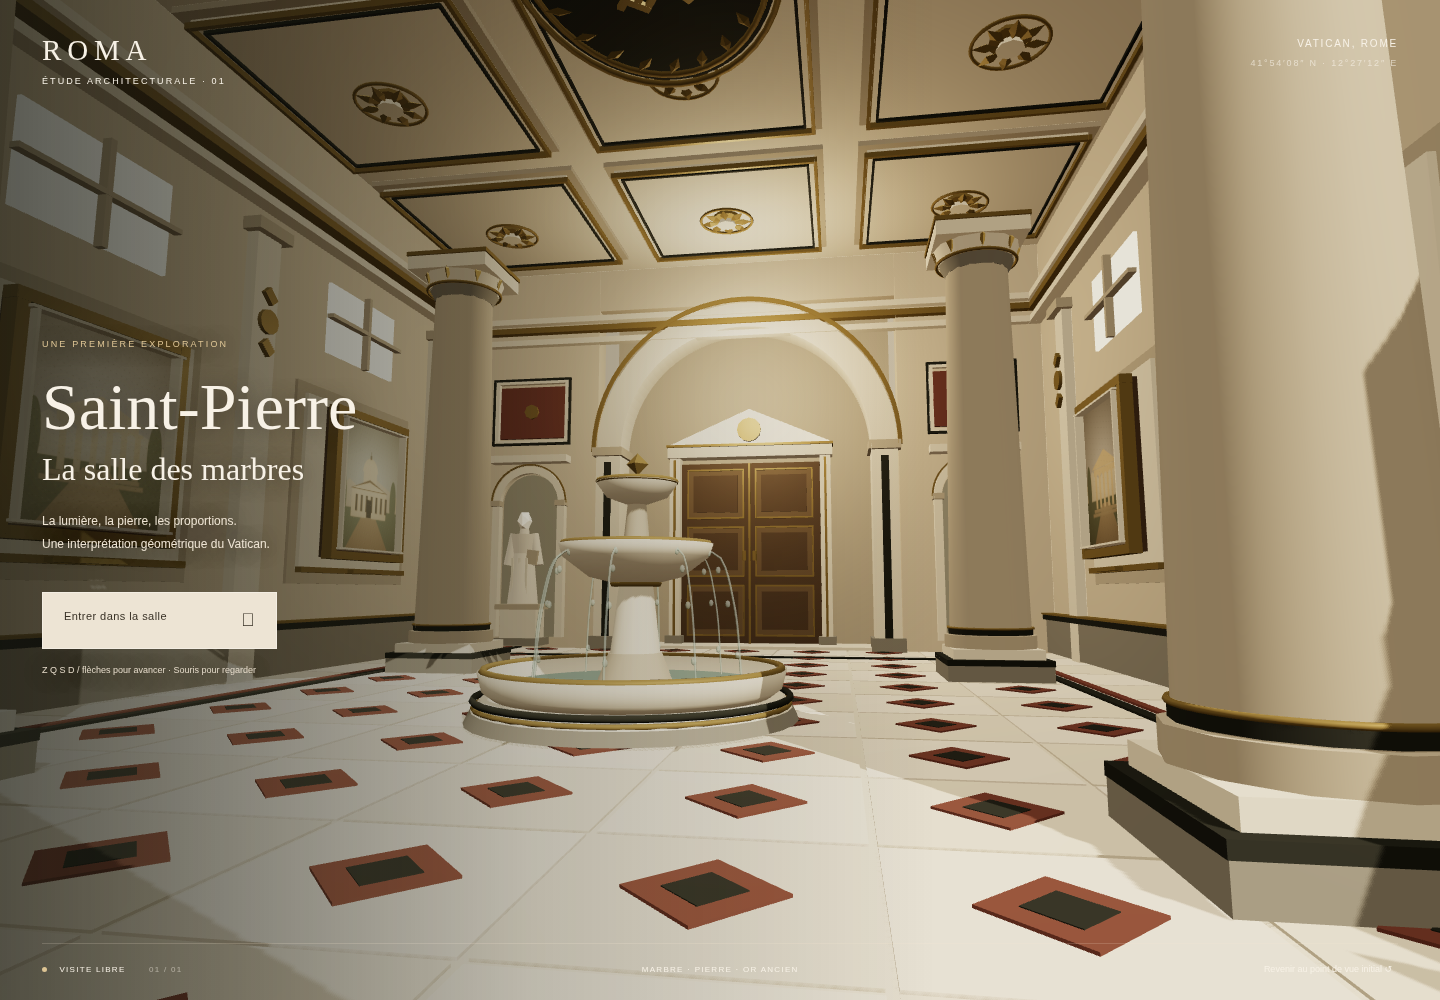
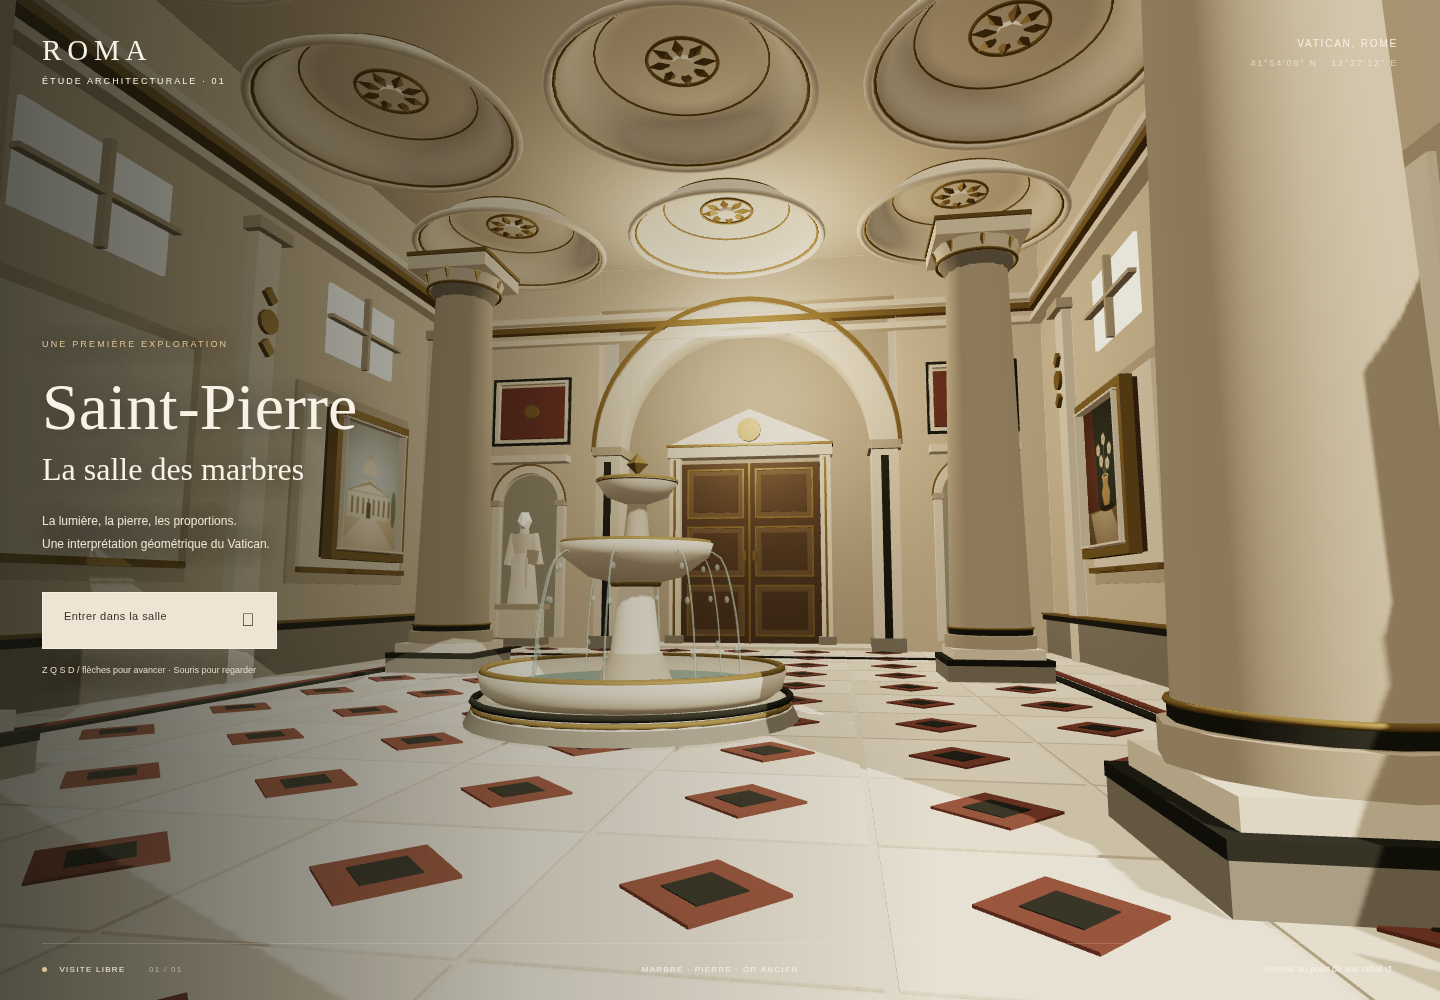
Round recessed ceiling mouldings and display four distinct paintings

diff --git a/src/main.js b/src/main.js
@@ -110,7 +110,19 @@ for(const side of [-1,1]){for(const z of [-10,-3,4,11]){box(.28,9,.65,side*8.65,
 for(const y of [9.6,10,10.3]){box(18,.18,.3,0,y,-12.55,y===10?gold:cream);for(const side of [-1,1])box(.4,.18,26,side*8.6,y,0,y===10?gold:cream);}
 // Plafond à caissons, aux bordures or ancien.
 box(18,.35,26,0,12.1,0,cream);
-for(const x of [-6,0,6])for(const z of [-9,-3,3,9]){box(5.2,.12,5.2,x,11.86,z,stone);box(4.8,.14,4.8,x,11.78,z,cream);for(const dx of [-2.42,2.42])box(.08,.12,4.92,x+dx,11.65,z,gold);for(const dz of [-2.42,2.42])box(4.92,.12,.08,x,11.65,z+dz,gold);const rosette=cylinder(.32,.4,.12,x,11.61,z,gold,8);rosette.rotation.y=Math.PI/8;}
+// Profil concave : le centre remonte dans le plafond, les bords sont arrondis.
+const coveMaterial=cream.clone();coveMaterial.side=THREE.DoubleSide;
+const coveGeometry=new THREE.LatheGeometry([
+  [0,11.87],[1.35,11.87],[1.6,11.82],[1.81,11.7],[1.99,11.52],
+  [2.13,11.32],[2.25,11.16],[2.4,11.06],[2.52,11.04]
+].map(([r,y])=>new THREE.Vector2(r,y)),48);
+for(const x of [-6,0,6])for(const z of [-9,-3,3,9]){
+  const cove=new THREE.Mesh(coveGeometry,coveMaterial);cove.position.set(x,0,z);
+  cove.name='rounded-ceiling-cove';cove.receiveShadow=true;scene.add(cove);
+  ring(2.52,.085,11.04,cream,x,z);
+  ring(2.4,.035,11.08,gold,x,z);
+  ring(1.67,.025,11.79,gold,x,z);
+}
 // Fenêtres claires en hauteur, avec encadrements et meneaux simples.
 const glazing=new THREE.MeshBasicMaterial({color:'#fff2cf'});
 for(const side of [-1,1])for(const z of [-6.5,.5,7.5]){box(.09,1.65,2.6,side*8.72,8,z,glazing);box(.16,.09,2.8,side*8.58,8,z,stone);box(.16,1.8,.1,side*8.58,8,z,stone);}
@@ -171,40 +183,67 @@ for(let i=0;i<3;i++)ring(.15+i*.15,.008,.5,streamMaterial,1.48,0);
 function paintingTexture(index){
   const canvas=document.createElement('canvas');canvas.width=512;canvas.height=640;
   const ctx=canvas.getContext('2d');
-  const palettes=[['#b5b6a8','#d8c6a3','#7a816b'],['#afa89c','#c9b38c','#72745b'],['#b4bcae','#ded0b0','#7f826d']];
-  const [sky,plaster,foliage]=palettes[index%3];
-  ctx.fillStyle=sky;ctx.fillRect(0,0,512,640);
-  ctx.fillStyle='#c6baa1';ctx.beginPath();ctx.moveTo(0,355);ctx.lineTo(90,288);ctx.lineTo(190,338);ctx.lineTo(305,265);ctx.lineTo(512,345);ctx.lineTo(512,640);ctx.lineTo(0,640);ctx.fill();
-  ctx.fillStyle=foliage;ctx.fillRect(0,430,512,210);
-  ctx.fillStyle='#a49172';ctx.beginPath();ctx.moveTo(213,452);ctx.lineTo(305,452);ctx.lineTo(437,640);ctx.lineTo(78,640);ctx.fill();
-  ctx.fillStyle=plaster;
-  if(index%3===0){
-    ctx.fillRect(112,330,295,145);ctx.fillRect(203,236,112,100);
-    ctx.beginPath();ctx.ellipse(259,238,63,74,0,Math.PI,0);ctx.fill();
-    ctx.fillStyle='#827b69';ctx.fillRect(251,148,16,22);ctx.fillRect(257,128,4,24);
-    ctx.fillStyle='#81745d';ctx.beginPath();ctx.moveTo(99,333);ctx.lineTo(258,275);ctx.lineTo(419,333);ctx.fill();
-    ctx.fillStyle=plaster;ctx.beginPath();ctx.moveTo(119,328);ctx.lineTo(258,289);ctx.lineTo(399,328);ctx.fill();
-    ctx.fillStyle='#706b5b';for(let x=144;x<400;x+=42){ctx.fillRect(x,359,19,86);}
-    ctx.fillStyle='#5b584d';ctx.fillRect(237,379,43,95);
-  }else if(index%3===1){
-    ctx.fillRect(115,286,285,28);
-    ctx.beginPath();ctx.moveTo(91,284);ctx.lineTo(257,208);ctx.lineTo(421,284);ctx.fill();
-    for(let x=129;x<395;x+=52){ctx.fillRect(x,311,22,159);ctx.fillRect(x-7,308,36,12);}
-    ctx.fillStyle='#a99777';ctx.fillRect(98,472,320,15);ctx.fillRect(79,490,355,16);
+  const polygon=(points,color)=>{ctx.fillStyle=color;ctx.beginPath();points.forEach(([x,y],i)=>i?ctx.lineTo(x,y):ctx.moveTo(x,y));ctx.closePath();ctx.fill();};
+  const ellipse=(x,y,rx,ry,color)=>{ctx.fillStyle=color;ctx.beginPath();ctx.ellipse(x,y,rx,ry,0,0,Math.PI*2);ctx.fill();};
+  if(index===0){
+    // Vue frontale : coupole de Saint-Pierre et façade claire.
+    ctx.fillStyle='#aab5b2';ctx.fillRect(0,0,512,640);
+    ctx.fillStyle='#c5b293';ctx.fillRect(0,447,512,193);
+    polygon([[0,640],[225,450],[285,450],[512,640]],'#ddcbb0');
+    ctx.fillStyle='#ded0b6';ctx.fillRect(83,345,346,132);ctx.fillRect(205,250,102,100);
+    ellipse(256,250,62,80,'#d2c1a0');ctx.fillStyle='#aab5b2';ctx.fillRect(190,251,135,26);
+    ctx.fillStyle='#b9a685';ctx.fillRect(244,150,24,23);ctx.fillRect(253,124,6,28);
+    polygon([[73,348],[256,282],[440,348]],'#9b8766');polygon([[99,343],[256,299],[414,343]],'#e1d2b5');
+    for(let x=109;x<426;x+=45){ctx.fillStyle='#827660';ctx.fillRect(x,371,21,87);ctx.fillStyle='#e8d9be';ctx.fillRect(x+26,360,7,106);}
+    ctx.fillStyle='#514e43';ctx.fillRect(237,394,39,82);
+    for(const x of [36,477]){ellipse(x,410,23,100,'#69745e');}
+  }else if(index===1){
+    // Paysage horizontal : le Tibre et un pont aux arches sombres.
+    ctx.fillStyle='#b5b5a8';ctx.fillRect(0,0,512,640);
+    polygon([[0,284],[104,231],[210,285],[338,208],[512,278],[512,430],[0,430]],'#92927b');
+    ctx.fillStyle='#798e88';ctx.fillRect(0,383,512,257);
+    polygon([[0,355],[142,392],[98,640],[0,640]],'#6e775a');polygon([[512,342],[378,401],[441,640],[512,640]],'#858263');
+    ctx.fillStyle='#c9b692';ctx.fillRect(25,335,462,89);
+    for(let x=48;x<465;x+=88){ctx.fillStyle='#555b50';ctx.beginPath();ctx.arc(x+30,407,30,Math.PI,0);ctx.lineTo(x+60,426);ctx.lineTo(x,426);ctx.fill();}
+    ctx.fillStyle='#e0c9a2';ctx.fillRect(20,326,472,13);
+    for(let i=0;i<14;i++){ctx.fillStyle=i%2?'#b4b7a1':'#889f96';ctx.fillRect(140+(i%3)*31,450+i*11,100-i*3,3);}
+    for(const x of [37,471]){ellipse(x,301,17,67,'#505f49');}
+  }else if(index===2){
+    // Nature morte : vase ocre, fleurs ivoire et drapé rouge brun.
+    ctx.fillStyle='#484f46';ctx.fillRect(0,0,512,640);
+    polygon([[0,0],[131,0],[170,492],[0,558]],'#744e40');
+    ctx.fillStyle='#8f7c60';ctx.fillRect(0,480,512,160);
+    polygon([[46,489],[314,479],[442,640],[107,640]],'#c9b99b');
+    ellipse(271,473,89,19,'#433e32');
+    polygon([[222,330],[303,330],[292,371],[316,408],[297,464],[234,464],[210,408],[233,371]],'#b79c6b');
+    ellipse(263,332,42,10,'#dbc49a');ellipse(263,332,29,5,'#66563b');
+    ctx.strokeStyle='#87916d';ctx.lineWidth=5;
+    for(const [x,y] of [[191,205],[263,165],[333,218],[224,260],[301,279]]){
+      ctx.beginPath();ctx.moveTo(263,333);ctx.lineTo(x,y);ctx.stroke();
+      for(let i=0;i<5;i++){const a=i*Math.PI*2/5;ellipse(x+Math.cos(a)*13,y+Math.sin(a)*13,12,15,'#ddd4b8');}
+      ellipse(x,y,7,7,'#b29559');
+    }
   }else{
-    ctx.fillRect(92,350,327,125);ctx.fillStyle='#716c58';
-    for(let x=116;x<410;x+=62){ctx.fillRect(x,401,35,75);ctx.beginPath();ctx.arc(x+17.5,401,17.5,Math.PI,0);ctx.fill();}
-    ctx.fillStyle=plaster;ctx.fillRect(295,235,46,120);ctx.fillRect(287,229,62,14);
+    // Figure drapée : silhouette classique, manteau bleu grisé et livre.
+    ctx.fillStyle='#958a74';ctx.fillRect(0,0,512,640);
+    ctx.fillStyle='#626759';ctx.fillRect(103,193,305,447);ellipse(256,194,152,126,'#626759');
+    polygon([[0,0],[74,0],[74,640],[0,640]],'#c5b495');polygon([[438,0],[512,0],[512,640],[438,640]],'#c5b495');
+    ellipse(260,174,48,57,'#c3ab88');ellipse(260,131,45,17,'#5f5746');
+    polygon([[220,226],[300,226],[344,528],[173,528]],'#d9cbb0');
+    polygon([[219,224],[265,247],[224,476],[184,530],[156,541],[185,315]],'#778582');
+    polygon([[297,229],[324,295],[337,509],[277,480],[263,343]],'#687976');
+    polygon([[193,296],[221,307],[257,351],[239,370],[194,338]],'#baa27f');
+    polygon([[272,337],[331,311],[343,380],[285,399]],'#765845');
+    polygon([[280,342],[323,324],[332,374],[290,389]],'#ded0ad');
+    ctx.fillStyle='#bbb09a';ctx.fillRect(150,533,211,20);ctx.fillStyle='#a3967c';ctx.fillRect(133,553,247,22);
   }
-  ctx.fillStyle=foliage;
-  for(const x of [43,468]){ctx.beginPath();ctx.ellipse(x,373,29,116,0,0,Math.PI*2);ctx.fill();ctx.fillRect(x-5,403,10,125);}
   // Patine déterministe pour évoquer une toile, sans charger de texture.
   let seed=index+17;for(let i=0;i<9500;i++){seed=(seed*1664525+1013904223)>>>0;const x=seed%512;seed=(seed*1664525+1013904223)>>>0;const y=seed%640;ctx.fillStyle=i%2?'#f1dec00a':'#3b30200a';ctx.fillRect(x,y,2,3);}
   const vignette=ctx.createRadialGradient(256,300,100,256,320,420);vignette.addColorStop(0,'#30261500');vignette.addColorStop(1,'#30261570');ctx.fillStyle=vignette;ctx.fillRect(0,0,512,640);
   const texture=new THREE.CanvasTexture(canvas);texture.colorSpace=THREE.SRGBColorSpace;texture.anisotropy=Math.min(renderer.capabilities.getMaxAnisotropy(),4);return texture;
 }
-const artworkMaterials=Array.from({length:3},(_,i)=>new THREE.MeshStandardMaterial({map:paintingTexture(i),roughness:1}));
-for(const side of [-1,1])for(const [index,z] of [-6.5,.5,7.5].entries()){
+const artworkMaterials=Array.from({length:4},(_,i)=>new THREE.MeshStandardMaterial({map:paintingTexture(i),roughness:1}));
+for(const side of [-1,1])for(const [index,z] of [-6.5,7.5].entries()){
   // Les cadres sont adossés aux panneaux existants, sous les fenêtres.
   box(.16,3.38,2.72,side*8.48,4.18,z,bronze);
   for(const dy of [-1.64,1.64]){
@@ -215,8 +254,8 @@ for(const side of [-1,1])for(const [index,z] of [-6.5,.5,7.5].entries()){
     box(.24,3.34,.18,side*8.32,4.18,z+dz,gold);
     box(.27,3.03,.045,side*8.25,4.18,z+dz-Math.sign(dz)*.15,cream);
   }
-  const picture=new THREE.Mesh(new THREE.PlaneGeometry(2.42,2.96),artworkMaterials[(index+(side>0?1:0))%3]);
-  picture.rotation.y=-side*Math.PI/2;picture.position.set(side*8.3,4.18,z);picture.name='wall-painting';scene.add(picture);
+  const picture=new THREE.Mesh(new THREE.PlaneGeometry(2.42,2.96),artworkMaterials[index+(side>0?2:0)]);
+  picture.rotation.y=-side*Math.PI/2;picture.position.set(side*8.3,4.18,z);picture.name='wall-painting';picture.userData.subject=['Saint-Pierre','Le Tibre','Nature morte','Figure drapée'][index+(side>0?2:0)];scene.add(picture);
   box(.15,.08,1.2,side*8.28,2.19,z,gold);
 }
 // Ornements en or ancien : rosaces des pilastres et feuilles géométriques des chapiteaux.
@@ -254,50 +293,16 @@ const ceilingPetals=new THREE.InstancedMesh(new THREE.OctahedronGeometry(1),gold
 ceilingPetals.name='ceiling-rosettes';
 const petalDummy=new THREE.Object3D();let petalIndex=0;
 for(const x of [-6,0,6])for(const z of [-9,-3,3,9]){
-  for(const dx of [-2.24,2.24])box(.055,.06,4.5,x+dx,11.65,z,black);
-  for(const dz of [-2.24,2.24])box(4.5,.06,.055,x,11.65,z+dz,black);
-  ring(.68,.035,11.51,gold,x,z);
-  cylinder(.19,.26,.13,x,11.46,z,cream,8);
+  ring(.68,.035,11.79,gold,x,z);
+  cylinder(.19,.26,.13,x,11.76,z,cream,8);
   for(let i=0;i<8;i++){
     const angle=i*Math.PI/4;
-    petalDummy.position.set(x+Math.cos(angle)*.43,11.46,z+Math.sin(angle)*.43);
+    petalDummy.position.set(x+Math.cos(angle)*.43,11.76,z+Math.sin(angle)*.43);
     petalDummy.rotation.set(0,-angle,0);petalDummy.scale.set(.25,.08,.115);
     petalDummy.updateMatrix();ceilingPetals.setMatrixAt(petalIndex++,petalDummy.matrix);
   }
 }
 ceilingPetals.instanceMatrix.needsUpdate=true;scene.add(ceilingPetals);
-
-// Médaillon central : interprétation géométrique des clés de saint Pierre.
-// Le décor est orienté vers le sol et ne modifie ni hauteur de visite ni éclairage.
-const ceilingSeal=cylinder(2.05,2.05,.15,0,11.38,0,black,48);
-ceilingSeal.name='saint-peter-ceiling';ceilingSeal.scale.z=1.36;
-for(const radius of [1.92,2.13]){
-  const rim=ring(radius,.055,11.29,gold);rim.scale.y=1.36;
-}
-const emblem=new THREE.Group();emblem.name='crossed-keys';
-emblem.position.set(0,11.24,0);emblem.rotation.x=Math.PI/2;scene.add(emblem);
-function emblemBox(parent,w,h,x,y){
-  const mesh=new THREE.Mesh(boxGeometry,gold);mesh.scale.set(w,h,.07);mesh.position.set(x,y,0);parent.add(mesh);
-}
-for(const angle of [-.64,.64]){
-  const key=new THREE.Group();key.rotation.z=angle;emblem.add(key);
-  const bow=new THREE.Mesh(new THREE.TorusGeometry(.29,.07,6,24),gold);
-  bow.position.y=1.05;key.add(bow);
-  emblemBox(key,.12,1.9,0,-.04);
-  emblemBox(key,.5,.13,.19,-.77);
-  emblemBox(key,.11,.33,.38,-.67);
-  emblemBox(key,.11,.26,.19,-.7);
-  emblemBox(key,.27,.09,0,.61);
-}
-// Feuilles géométriques autour du médaillon, regroupées en un seul objet.
-const sealLeaves=new THREE.InstancedMesh(new THREE.OctahedronGeometry(1),gold,20);
-for(let i=0;i<20;i++){
-  const angle=i*Math.PI/10;
-  petalDummy.position.set(Math.cos(angle)*1.7,11.24,Math.sin(angle)*2.31);
-  petalDummy.rotation.set(0,-angle+.5,0);petalDummy.scale.set(.23,.055,.1);
-  petalDummy.updateMatrix();sealLeaves.setMatrixAt(i,petalDummy.matrix);
-}
-scene.add(sealLeaves);
 
 scene.add(new THREE.HemisphereLight('#fff0d8','#918271',2));
 const sun=new THREE.DirectionalLight('#fff1d7',3.1);sun.position.set(6,11,7);sun.castShadow=true;sun.shadow.mapSize.set(2048,2048);Object.assign(sun.shadow.camera,{left:-16,right:16,top:18,bottom:-18,near:.5,far:50});sun.shadow.normalBias=.035;sun.target.position.set(-3,0,-5);scene.add(sun,sun.target);

diff --git a/README.md b/README.md
@@ -46,10 +46,12 @@ Deux niches cintrées avec statues géométriques en pierre claire encadrent dé
 
 La salle comporte désormais une fontaine centrale à vasques superposées, en pierre crème avec bordures en or ancien. L'eau et les gouttes sont animées ; les gouttes partagent un seul objet instancié. Une collision circulaire laisse une marge autour du socle et permet de contourner le bassin.
 
-Six tableaux originaux de paysages et d'architecture sont dessinés localement sur Canvas, dans une palette terre, pierre et vert grisé, avec des cadres dorés. Des rosaces et feuilles géométriques complètent les pilastres et chapiteaux. Aucun téléchargement de texture, aucune image personnelle ou œuvre historique reproduite.
+Quatre tableaux originaux (Saint-Pierre, le Tibre, une nature morte et une figure drapée) sont dessinés localement sur Canvas, dans une palette terre, pierre et vert grisé, avec des cadres dorés. Des rosaces et feuilles géométriques complètent les pilastres et chapiteaux. Aucun téléchargement de texture, aucune image personnelle ou œuvre historique reproduite.
 
-Les tests navigateur vérifient aussi la collision de la fontaine, le passage tout autour, l'animation de l'eau et la présence des six tableaux.
+Les tests navigateur vérifient aussi la collision de la fontaine, le passage tout autour, l'animation de l'eau et la présence des quatre tableaux.
 
 ## Marbre noir et plafond de Saint-Pierre
 
-Des filets de marbre noir soulignent les soubassements, socles de colonnes, bordures de la fontaine et encadrements du fond. Le plafond reçoit des rosaces en relief, de fins filets noirs et un médaillon elliptique noir et or aux clés croisées de saint Pierre. Ce décor est une interprétation géométrique, sans prétendre reproduire exactement le plafond historique. Les pétales des rosaces et les feuilles du médaillon utilisent des géométries instanciées. La circulation et l'éclairage sont conservés.
+Des filets de marbre noir soulignent les soubassements, socles de colonnes, bordures de la fontaine et encadrements du fond. Les moulures du plafond ont un profil concave arrondi : les bords descendent et le centre remonte dans le plafond pour former un creux. Les rosaces et filets en or ancien restent sobres. Le médaillon noir aux clés croisées a été retiré. La circulation et l'éclairage sont conservés.
+
+Les quatre tableaux sont tous différents et répartis à raison de deux par côté, sans duplication : Saint-Pierre, le Tibre, une nature morte et une figure drapée. Les textures sont créées localement sans téléchargement.
